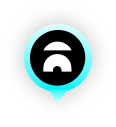
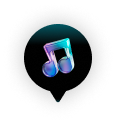
:sparkles: feat: drop in map view change

Changed region(s): [[0.2069, 0.189, 0.8017, 0.8268]]

diff --git a/backend/streetdrop-admin/streetdrop-admin-web/src/components/music/drop/SearchDropMusic.js b/backend/streetdrop-admin/streetdrop-admin-web/src/components/music/drop/SearchDropMusic.js
@@ -30,10 +30,17 @@ function SearchDropMusic() {
             setSelectedSongList([...selectedSongList, songs[selectedRowKeys[0] - 1]]);
             if (selectedSongList.length > 0) {
                 // 마지막 요소 선택
-                navigate('/drop-music/details', {state: {selectedSong: selectedSongList[selectedSongList.length - 1]}});
+                navigate('/drop-music/single', {state: {selectedSong: selectedSongList[selectedSongList.length - 1]}});
             }
         }
     };
+
+    const onClickDropInCart = () => {
+        messageApi.open({
+            type: 'error',
+            content: "현재 준비중인 기능입니다.",
+        })
+    }
 
 
     /*
@@ -186,7 +193,7 @@ function SearchDropMusic() {
                     extra={
                         <Space>
                             <Button onClick={() => setSelectedSongList([])}>지우기</Button>
-                            <Button type="primary" onClick={console.log("clicked")}>모두 드랍하기</Button>
+                            <Button type="primary" onClick={onClickDropInCart}>모두 드랍하기</Button>
                         </Space>
                     }
                 >

diff --git a/backend/streetdrop-admin/streetdrop-admin-web/src/components/music/drop/DropKakaoMap.js b/backend/streetdrop-admin/streetdrop-admin-web/src/components/music/drop/DropKakaoMap.js
@@ -54,8 +54,7 @@ const DropKakaoMap = ({onMapClick, height}) => {
                     onMapClick && onMapClick({lat: mouseEvent.latLng.getLat(), lng: mouseEvent.latLng.getLng()})
                 }}
             >
-                {position
-                    &&
+                {
                     poi.map((poiInfo, index) => (
                         <MapMarker
                             key={`${poiInfo.id}`}
@@ -74,8 +73,18 @@ const DropKakaoMap = ({onMapClick, height}) => {
                             }}
                         />
                     ))
+                }{
+
+                    position
                     &&
-                    <MapMarker position={position}/>
+                    <MapMarker position={position}
+                    image={{
+                        src: "/image/new-poi.png",
+                        size: {
+                            width: 60,
+                            height: 60
+                        }
+                    }}/>
                 }
             </Map>
         </>

diff --git a/backend/streetdrop-admin/streetdrop-admin-web/src/App.js b/backend/streetdrop-admin/streetdrop-admin-web/src/App.js
@@ -20,7 +20,7 @@ const App = () => {
                     <Route exact path="/login" element={<Login/>}/>
                     <Route exact path="/" element={<Dashboard/>}/>
                     <Route path="/drop-music" element={<SearchDropMusic/>}/>
-                    <Route path="/drop-music/details" element={<DropSingleMusic/>}/>
+                    <Route path="/drop-music/single" element={<DropSingleMusic/>}/>
                     <Route path='/drop-music/result/success' element={<DropMusicSuccess/>}/>
                     <Route path='/drop-music/result/fail' element={<DropMusicFail/>}/>
                     <Route path='/music/recommend' element={<MusicRecommend/>}/>
